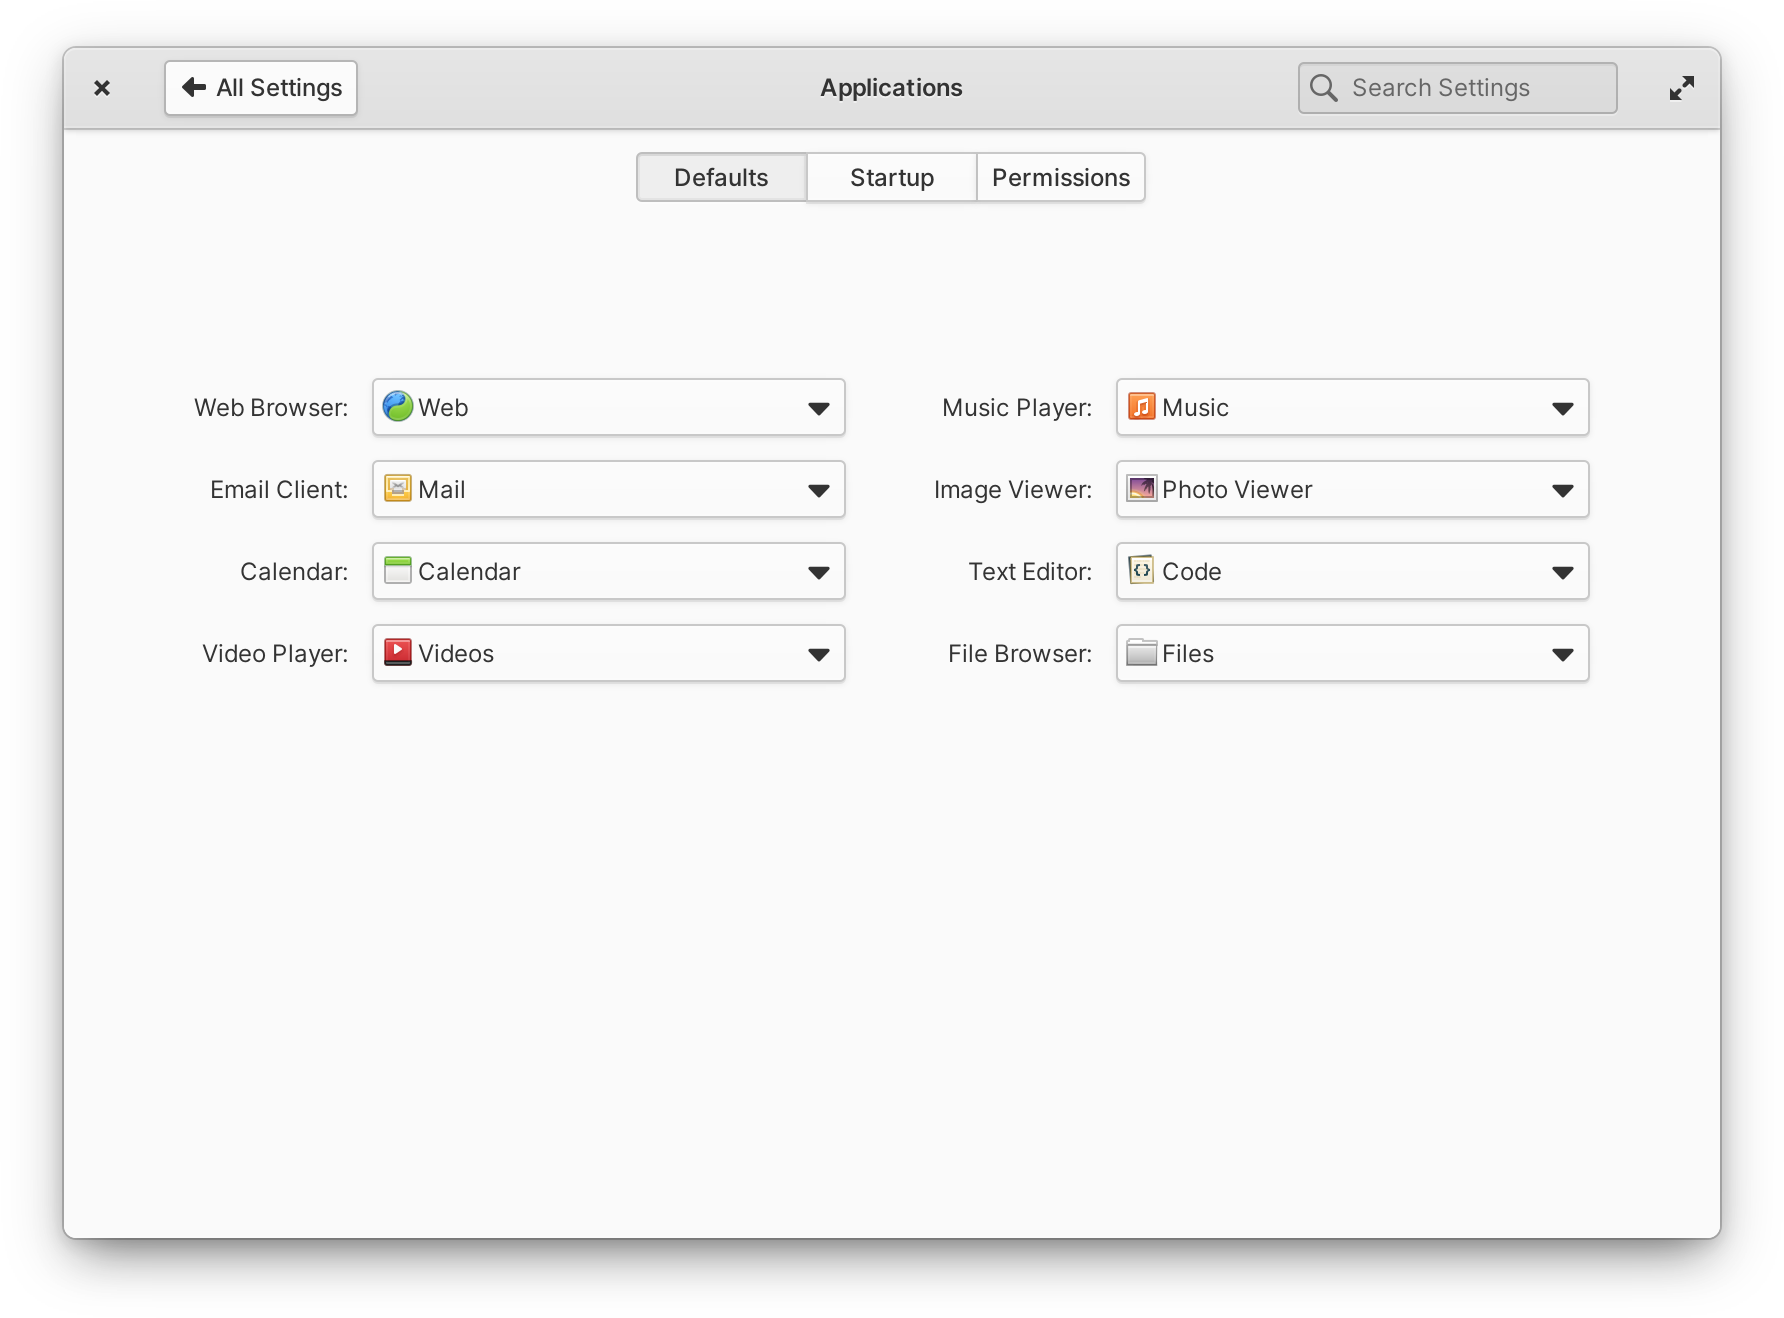
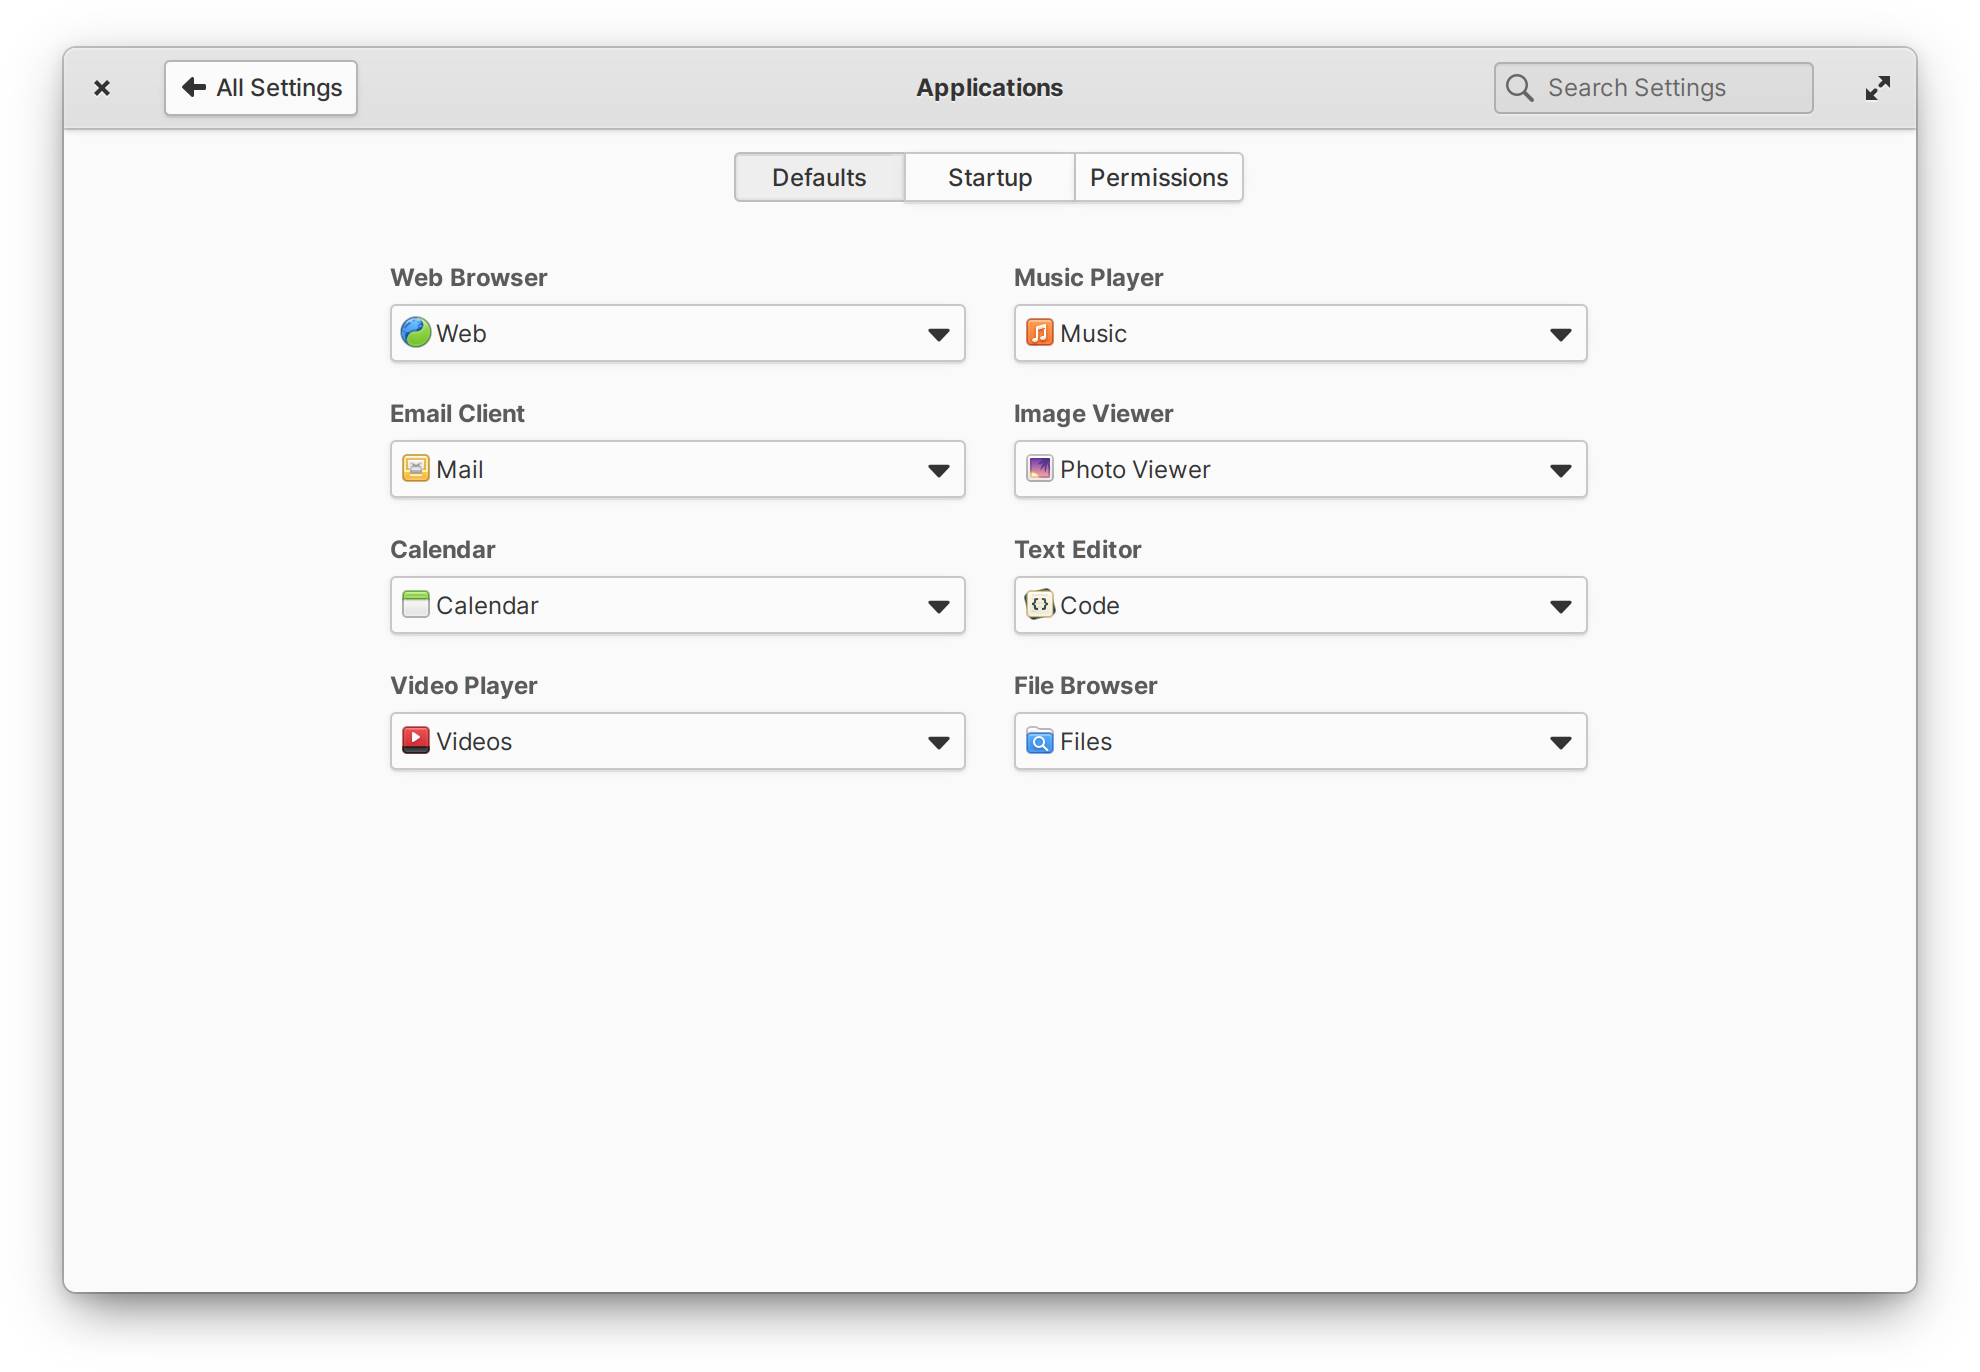
Defaults: rewrite, responsive

diff --git a/README.md b/README.md
@@ -11,6 +11,7 @@ You'll need the following dependencies:
 * libflatpak-dev
 * libgranite-dev
 * libgtk-3-dev
+* libhandy-1-dev
 * meson
 * valac
 
